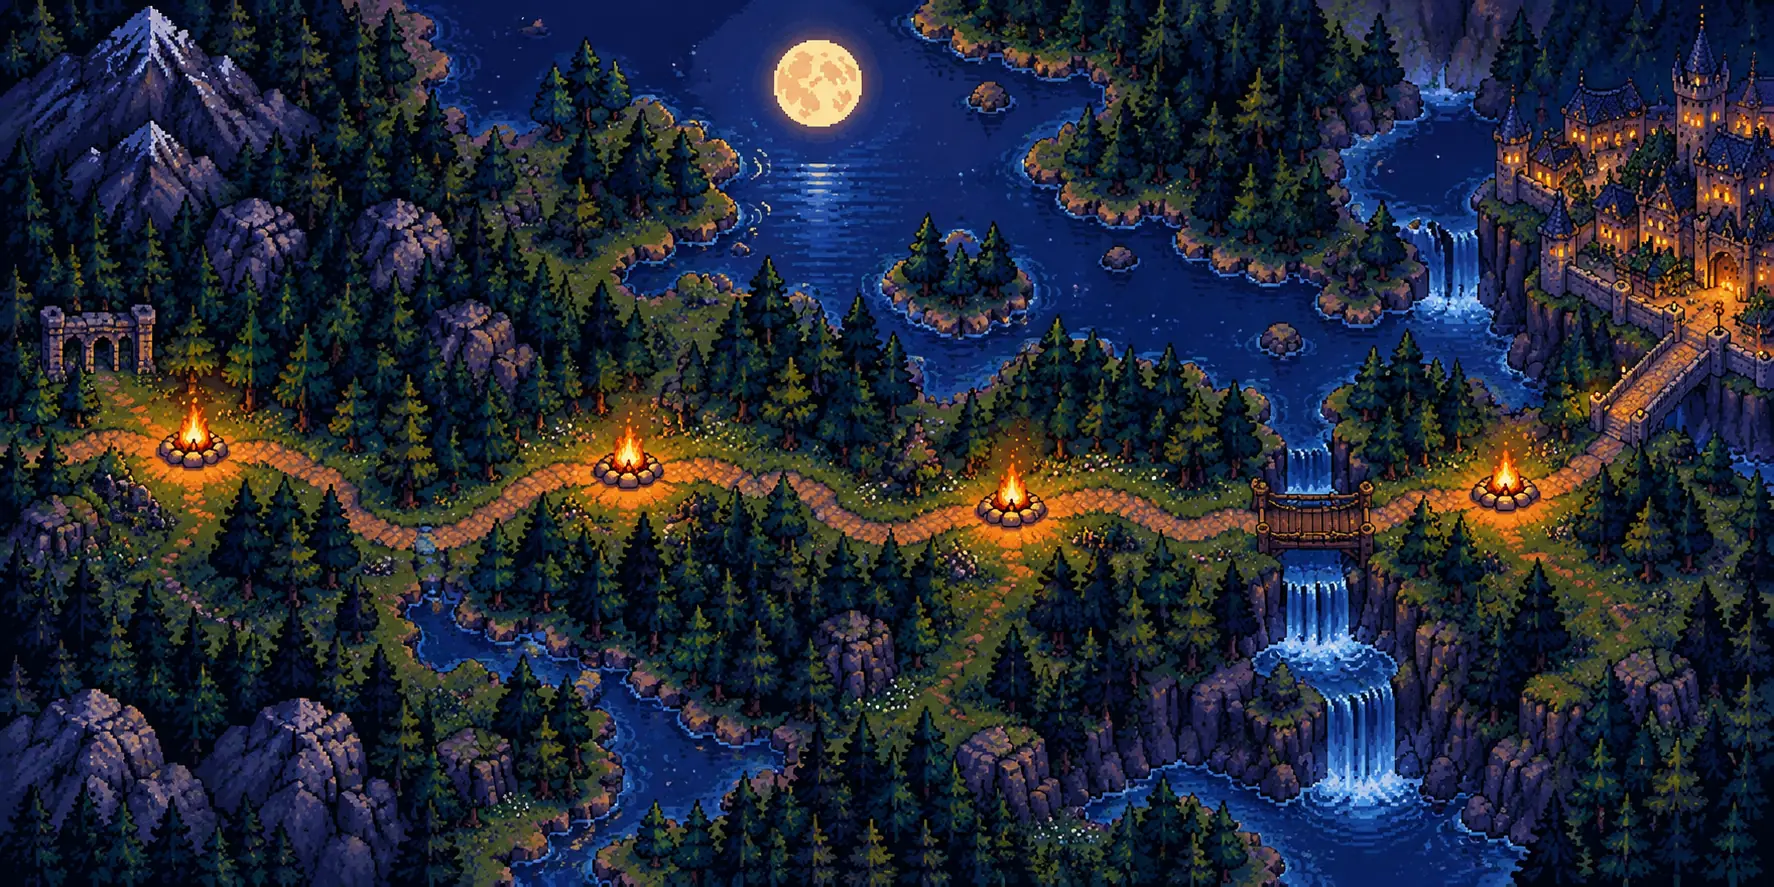
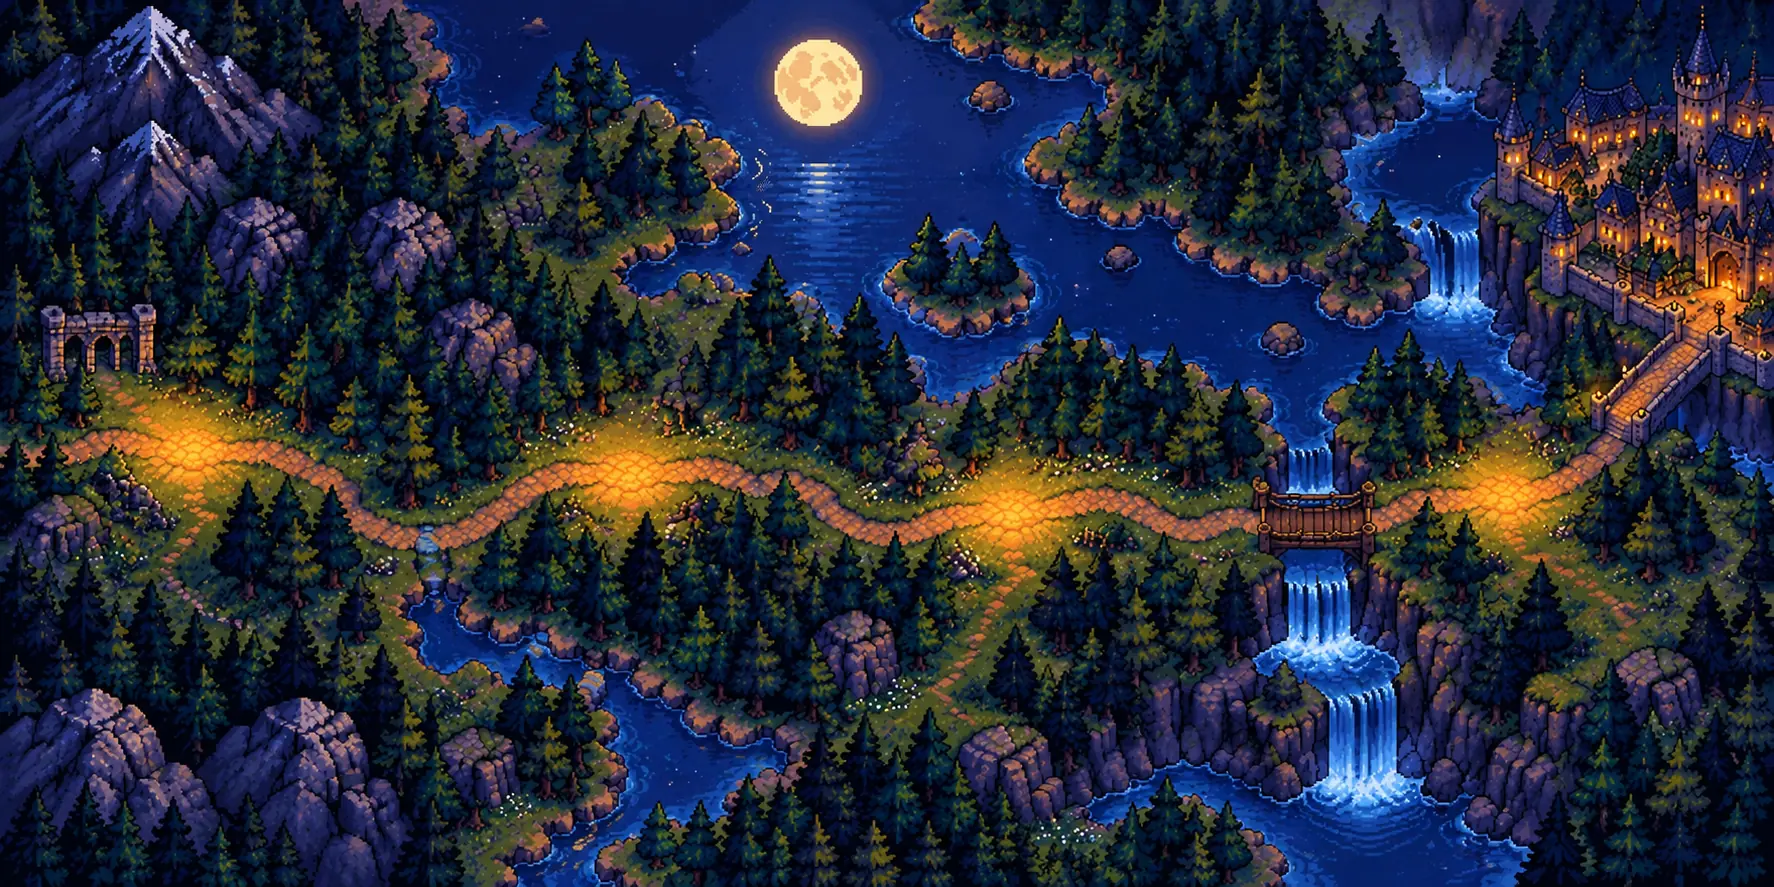
Diario: nuovo sfondo del mondo 1 senza falò, sentiero e posizioni ricalcolati
Claude-Session: https://claude.ai/code/session_01Ly8M64WoiNxbZKkFq6qyb5

Changed region(s): [[0.0, 0.0, 1.0, 1.0], [0.6511, 0.0, 0.6821, 0.0304], [0.0, 0.1218, 0.031, 0.1522]]

diff --git a/index.html b/index.html
@@ -211,23 +211,23 @@
             <h2 class="visually-hidden">Diario</h2>
 
             <!-- I quattro mondi, uno per mese: si vede uno alla volta, a tutto schermo -->
-            <div class="world-page" data-world="1" data-name="La foresta" data-month="Settembre" data-path="0.00,50.17 1.01,50.38 2.03,50.73 3.04,51.03 4.06,50.91 5.07,50.43 6.09,49.75 7.10,49.35 8.12,49.37 9.13,49.48 10.15,49.49 11.16,49.75 12.18,50.21 13.19,50.61 14.21,50.88 15.22,51.15 16.23,51.74 17.25,52.58 18.26,53.54 19.28,55.39 20.29,57.64 21.31,59.29 22.32,60.02 23.34,60.36 24.35,60.43 25.37,60.33 26.38,59.80 27.40,58.75 28.41,57.38 29.43,55.99 30.44,54.71 31.45,53.55 32.47,52.84 33.48,52.58 34.50,52.47 35.51,52.21 36.53,52.12 37.54,52.34 38.56,52.50 39.57,52.55 40.59,52.99 41.60,53.77 42.62,54.35 43.63,54.52 44.64,54.57 45.66,55.25 46.67,56.71 47.69,58.30 48.70,59.43 49.72,59.88 50.73,59.91 51.75,59.63 52.76,59.00 53.78,58.43 54.79,58.03 55.81,57.90 56.82,57.82 57.84,57.69 58.85,57.50 59.86,56.98 60.88,56.44 61.89,56.25 62.91,56.55 63.92,57.09 64.94,57.96 65.95,58.90 66.97,59.45 67.98,59.43 69.00,58.97 70.01,58.77 71.03,58.86 72.04,58.96 73.06,58.96 74.07,59.02 75.08,59.09 76.10,59.01 77.11,58.82 78.13,58.37 79.14,57.46 80.16,56.60 81.17,56.10 82.19,55.87 83.20,55.55 84.22,55.42 85.23,55.31 86.25,55.32 87.26,55.34">
+            <div class="world-page" data-world="1" data-name="La foresta" data-month="Settembre" data-path="0.00,50.92 1.01,51.06 2.03,51.24 3.04,51.25 4.06,50.99 5.07,50.50 6.09,49.82 7.10,49.33 8.12,49.18 9.13,49.15 10.15,49.15 11.16,49.35 12.18,49.76 13.19,50.33 14.21,50.76 15.22,51.01 16.23,51.56 17.25,52.48 18.26,53.44 19.28,55.17 20.29,57.38 21.31,59.13 22.32,59.99 23.34,60.37 24.35,60.44 25.37,60.45 26.38,60.00 27.40,58.95 28.41,57.58 29.43,56.02 30.44,54.66 31.45,53.62 32.47,53.08 33.48,52.90 34.50,52.87 35.51,52.87 36.53,52.92 37.54,53.04 38.56,52.87 39.57,52.59 40.59,52.85 41.60,53.64 42.62,54.27 43.63,54.33 44.64,54.39 45.66,55.15 46.67,56.67 47.69,58.24 48.70,59.39 49.72,59.92 50.73,59.99 51.75,59.56 52.76,58.79 53.78,58.29 54.79,58.20 55.81,58.18 56.82,58.17 57.84,58.15 58.85,58.04 59.86,57.51 60.88,56.67 61.89,56.16 62.91,56.37 63.92,57.00 64.94,57.84 65.95,58.76 66.97,59.47 67.98,59.52 69.00,59.01 70.01,58.38 71.03,57.82 72.04,57.84 73.06,58.61 74.07,58.87 75.08,58.99 76.10,58.93 77.11,58.75 78.13,58.34 79.14,57.59 80.16,56.66 81.17,56.04 82.19,55.74 83.20,55.61 84.22,55.59 85.23,55.58 86.25,55.69 87.26,55.78">
                 <div class="world-stage">
                     <img class="world-art" src="immagini/mondo-1.webp" alt="Il primo mondo visto dall'alto: un sentiero con quattro falò tra i pini, un lago con le isole, le cascate e un castello" width="1774" height="887">
                     <i class="knight-walker" aria-hidden="true"></i>
-                        <button type="button" class="world-stop" data-level-open="1" data-world-week="1" data-stand-x="8.40" data-stand-y="50.08" data-panel-top="52.54%" style="left: 11.22%; top: 43.74%">
+                        <button type="button" class="world-stop" data-level-open="1" data-world-week="1" data-stand-x="7.84" data-stand-y="49.90" data-panel-top="54.57%" style="left: 10.65%; top: 45.77%">
                             <span class="state-icon" aria-hidden="true"></span>
                             <span class="world-stop-text"><span class="world-stop-lv">LV 01</span><span class="world-stop-state"></span></span>
                         </button>
-                        <button type="button" class="world-stop" data-level-open="2" data-world-week="2" data-stand-x="32.58" data-stand-y="53.49" data-panel-top="54.57%" style="left: 35.40%; top: 45.77%">
+                        <button type="button" class="world-stop" data-level-open="2" data-world-week="2" data-stand-x="32.64" data-stand-y="53.72" data-panel-top="57.05%" style="left: 35.46%; top: 48.25%">
                             <span class="state-icon" aria-hidden="true"></span>
                             <span class="world-stop-text"><span class="world-stop-lv">LV 02</span><span class="world-stop-state"></span></span>
                         </button>
-                        <button type="button" class="world-stop" data-level-open="3" data-world-week="3" data-stand-x="54.23" data-stand-y="58.93" data-panel-top="59.30%" style="left: 57.05%; top: 50.51%">
+                        <button type="button" class="world-stop" data-level-open="3" data-world-week="3" data-stand-x="53.89" data-stand-y="58.95" data-panel-top="61.22%" style="left: 56.71%; top: 52.42%">
                             <span class="state-icon" aria-hidden="true"></span>
                             <span class="world-stop-text"><span class="world-stop-lv">LV 03</span><span class="world-stop-state"></span></span>
                         </button>
-                        <button type="button" class="world-stop" data-level-open="4" data-world-week="4" data-stand-x="82.02" data-stand-y="56.59" data-panel-top="57.61%" style="left: 84.84%; top: 48.82%">
+                        <button type="button" class="world-stop" data-level-open="4" data-world-week="4" data-stand-x="82.02" data-stand-y="56.47" data-panel-top="59.53%" style="left: 84.84%; top: 50.73%">
                             <span class="state-icon" aria-hidden="true"></span>
                             <span class="world-stop-text"><span class="world-stop-lv">LV 04</span><span class="world-stop-state"></span></span>
                         </button>
